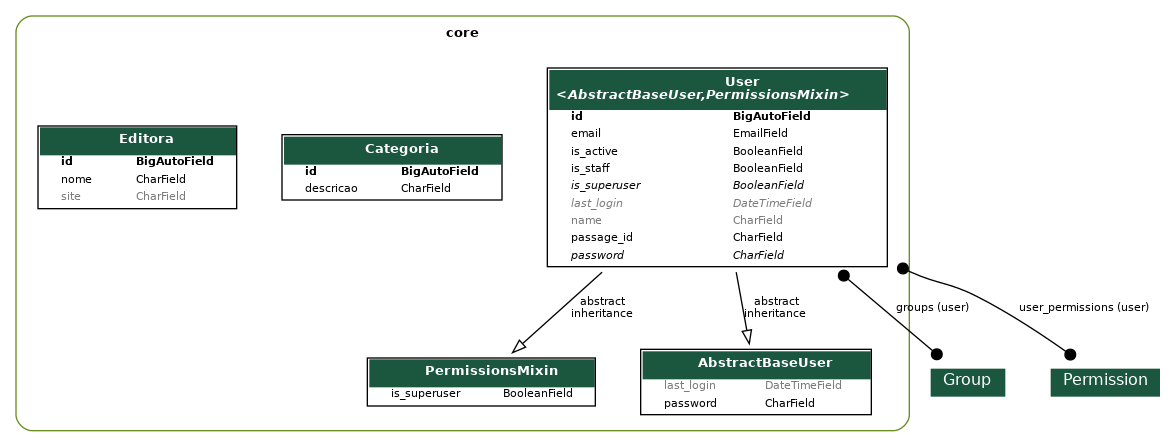
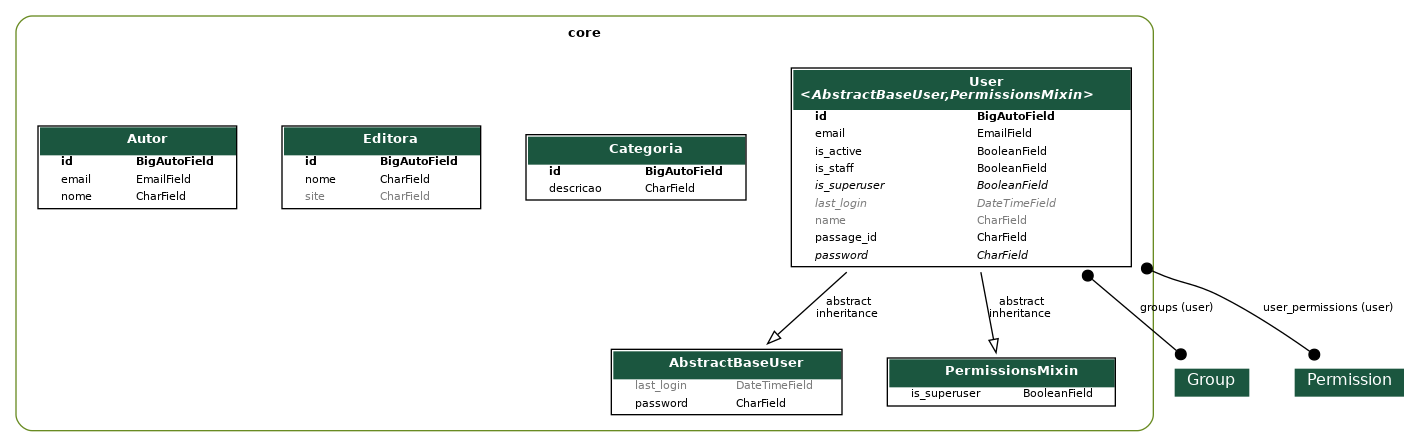
feat: criação da api autor

diff --git a/core/migrations/0008_autor.py b/core/migrations/0008_autor.py
@@ -1,0 +1,21 @@
+# Generated by Django 5.1.7 on 2025-04-15 11:23
+
+from django.db import migrations, models
+
+
+class Migration(migrations.Migration):
+
+    dependencies = [
+        ('core', '0007_alter_editora_site'),
+    ]
+
+    operations = [
+        migrations.CreateModel(
+            name='Autor',
+            fields=[
+                ('id', models.BigAutoField(auto_created=True, primary_key=True, serialize=False, verbose_name='ID')),
+                ('nome', models.CharField(max_length=100)),
+                ('email', models.EmailField(max_length=100)),
+            ],
+        ),
+    ]

diff --git a/app/urls.py b/app/urls.py
@@ -7,10 +7,11 @@ from drf_spectacular.views import (
 )
 from rest_framework.routers import DefaultRouter
 
-from core.views import CategoriaViewSet, EditoraViewSet, UserViewSet
+from core.views import AutorViewSet, CategoriaViewSet, EditoraViewSet, UserViewSet
 
 router = DefaultRouter()
 
+router.register(r'autores', AutorViewSet, basename='autores')
 router.register(r'categorias', CategoriaViewSet, basename='categorias')
 router.register(r'editoras', EditoraViewSet, basename='editoras')
 router.register(r'usuarios', UserViewSet, basename='usuarios')

diff --git a/core/views/autor.py b/core/views/autor.py
@@ -1,0 +1,9 @@
+from rest_framework.viewsets import ModelViewSet
+
+from core.models import Autor
+from core.serializers import AutorSerializer
+
+
+class AutorViewSet(ModelViewSet):
+    queryset = Autor.objects.all()
+    serializer_class = AutorSerializer

diff --git a/core/models/autor.py b/core/models/autor.py
@@ -1,0 +1,9 @@
+from django.db import models 
+
+
+class Autor(models.Model):
+    nome = models.CharField(max_length=100)
+    email = models.EmailField(max_length=100)
+
+    def __str__(self):
+        return f"{self.nome.title()} {self.email}"

diff --git a/core/serializers/autor.py b/core/serializers/autor.py
@@ -1,0 +1,8 @@
+from rest_framework.serializers import ModelSerializer
+
+from core.models import Autor
+
+class AutorSerializer(ModelSerializer):
+    class Meta:
+        model = Autor
+        fields = "__all__"

diff --git a/core/admin.py b/core/admin.py
@@ -54,3 +54,4 @@ class UserAdmin(BaseUserAdmin):
 admin.site.register(models.User, UserAdmin)
 admin.site.register(models.Categoria)
 admin.site.register(models.Editora)
+admin.site.register(models.Autor)

diff --git a/core/serializers/__init__.py b/core/serializers/__init__.py
@@ -1,3 +1,4 @@
 from .user import UserSerializer
 from .categoria import CategoriaSerializer
 from .editora import EditoraSerializer
+from .autor import AutorSerializer

diff --git a/core/views/__init__.py b/core/views/__init__.py
@@ -1,3 +1,4 @@
 from .user import UserViewSet
 from .categoria import CategoriaViewSet
 from .editora import EditoraViewSet
+from .autor import AutorViewSet

diff --git a/core/models/__init__.py b/core/models/__init__.py
@@ -1,3 +1,4 @@
 from .user import User
 from .categoria import Categoria
 from .editora import Editora
+from .autor import Autor
